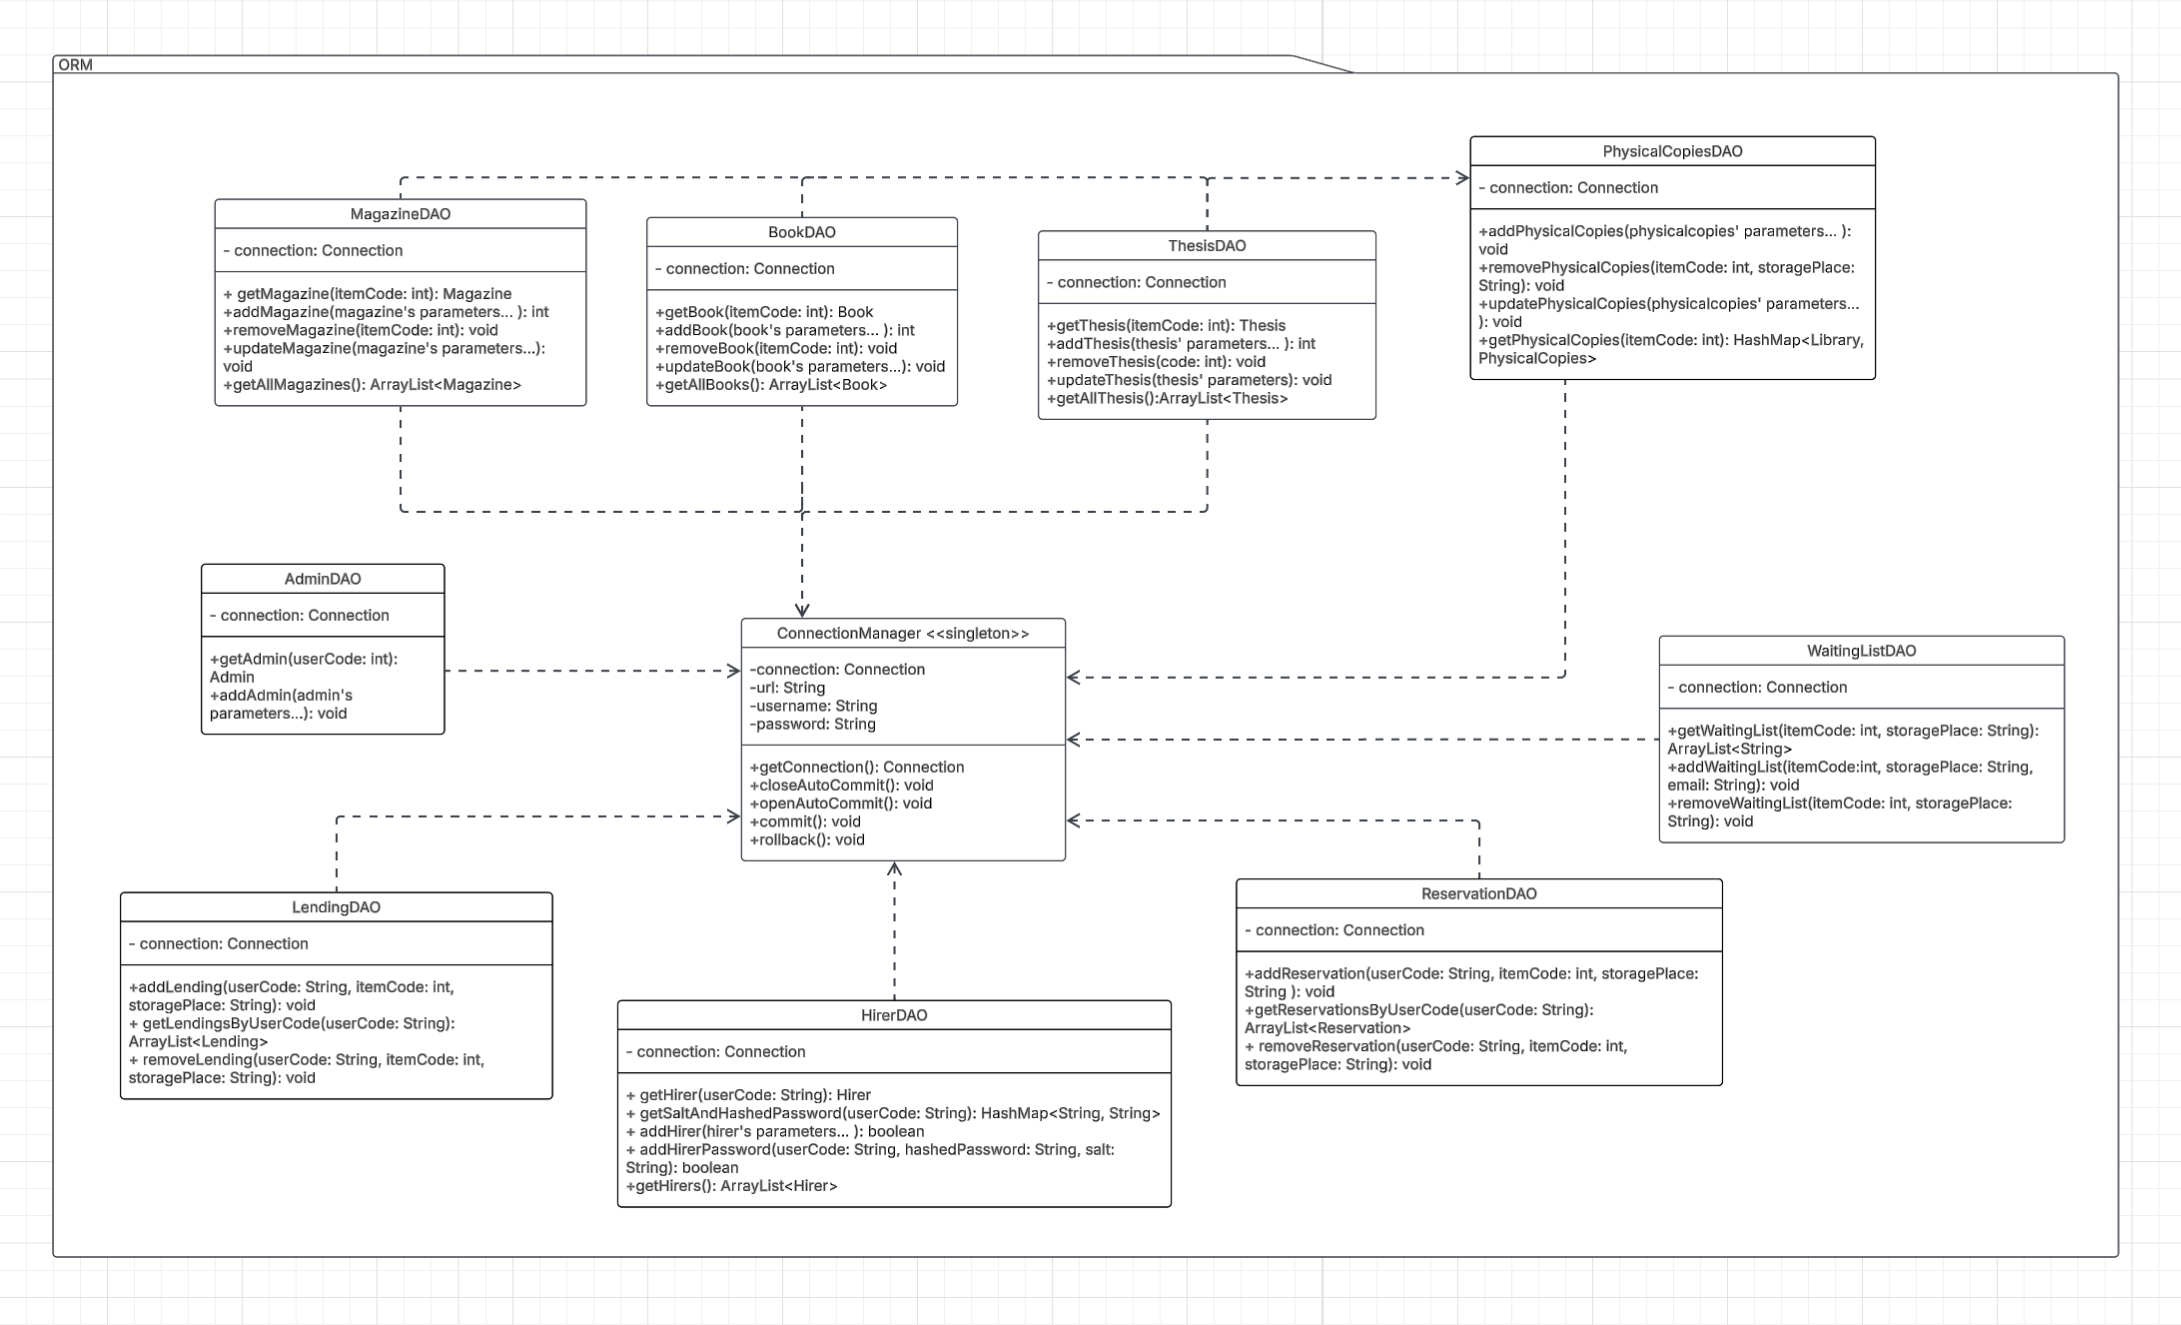
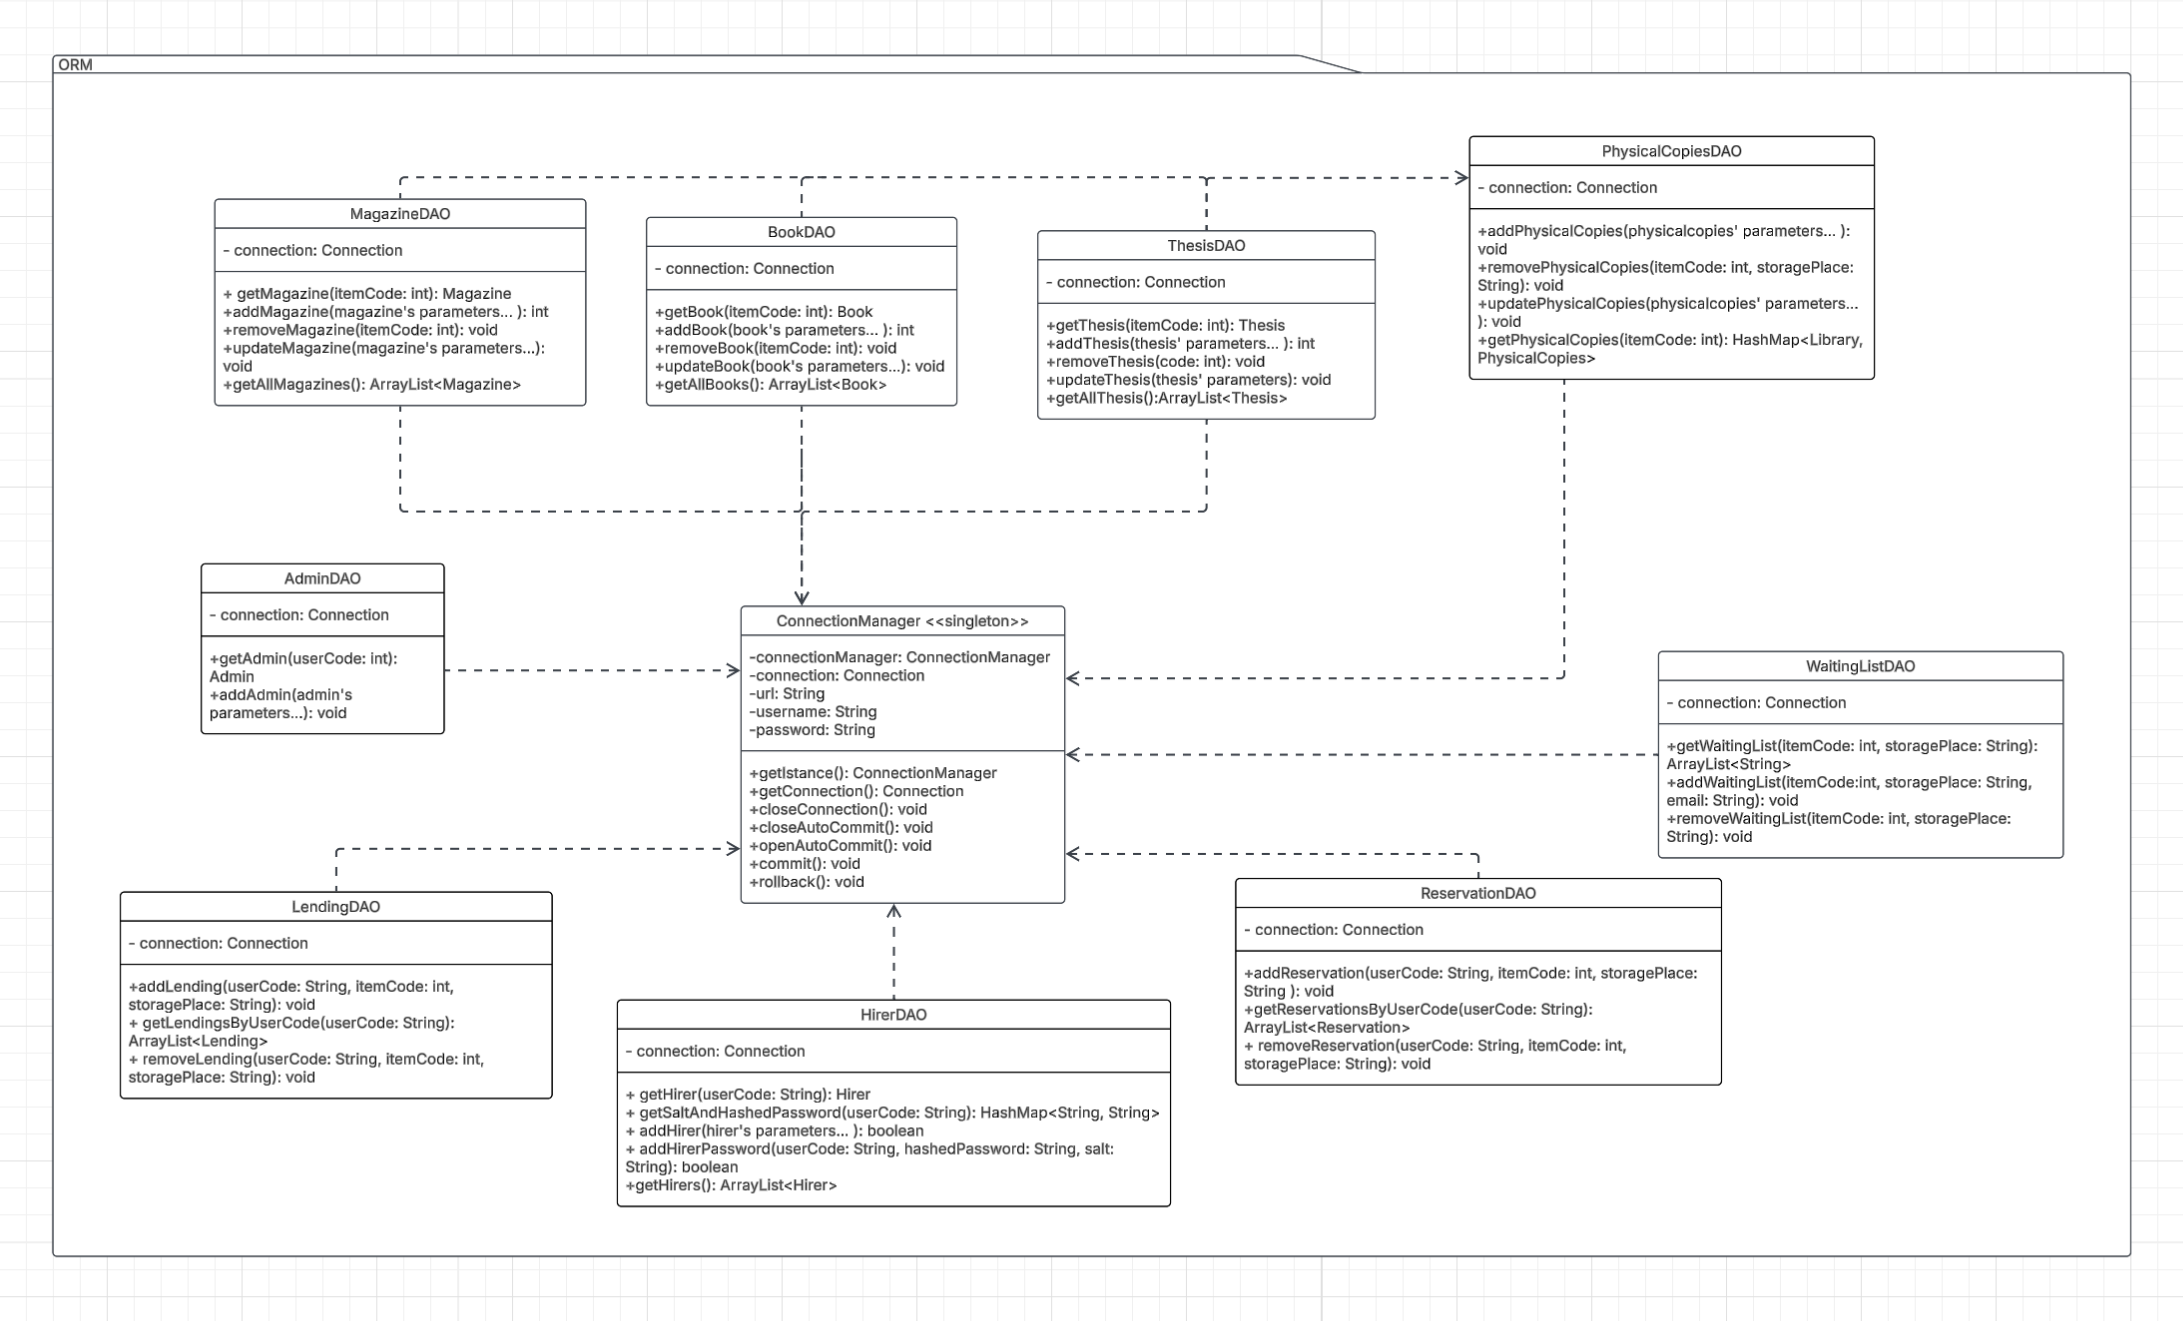
aggiustamenti classDiagram ORM

diff --git a/src/main/java/com/progetto_swe/business_logic/ReservationController.java b/src/main/java/com/progetto_swe/business_logic/ReservationController.java
@@ -72,8 +72,6 @@ public class ReservationController {
             lendingController.registerLending(hirer, item, token);
             connectionManager.commit();
             connectionManager.openAutoCommit();
-            MailSender.sendWithdrawSuccessMail(hirer.getEmail(), hirer.getUserCode(), item.getCode(), item.getTitle(),
-                    storagePlace, LocalDate.now().plusMonths(1).toString());
         }catch (Exception e){
             connectionManager.rollback();
             connectionManager.openAutoCommit();

diff --git a/src/main/java/com/progetto_swe/orm/ConnectionManager.java b/src/main/java/com/progetto_swe/orm/ConnectionManager.java
@@ -86,4 +86,12 @@ public class ConnectionManager {
             throw new DatabaseConnectionException(e);
         }
     }
+
+    public void closeConnection() {
+        try {
+            connection.close();
+        } catch (SQLException e) {
+            throw new DatabaseConnectionException(e);
+        }
+    }
 }
